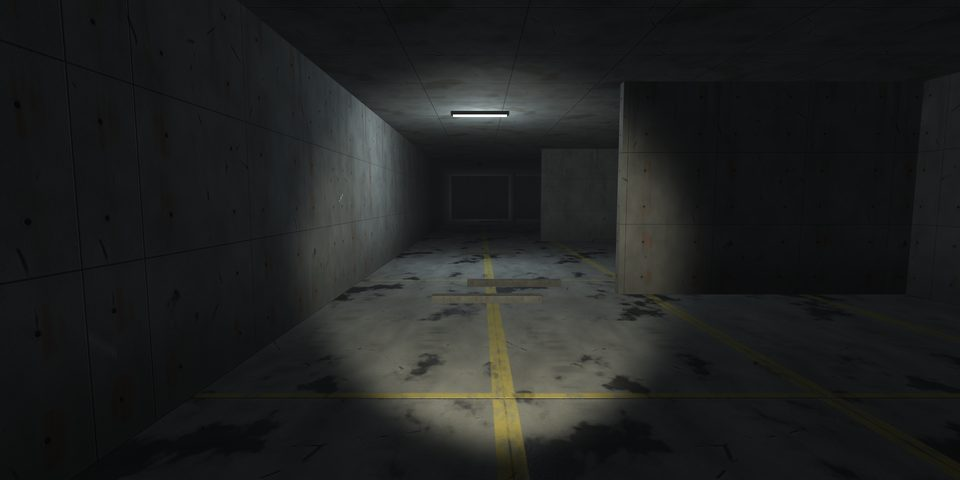
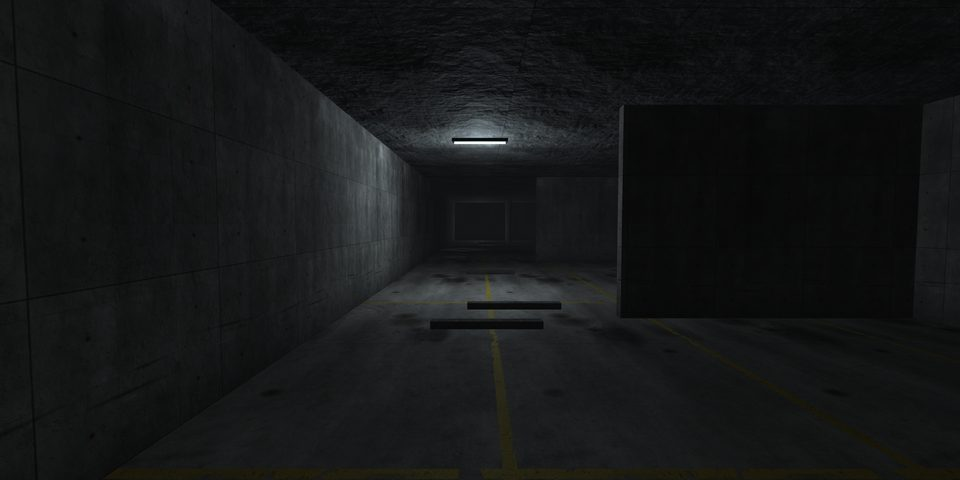
web v7.4.0: Novedades (ascensor nuevo, Aparcamiento, parque de bolas, Talasofobia, casas refugio), descarga v7.4.0 (≈253 MB) y tarjeta del Nivel 1 con captura real nueva sin VHS

Changed region(s): [[0.3125, 0.125, 0.75, 0.9375], [0.2812, 0.0625, 0.3125, 0.125]]

diff --git a/docs/index.html b/docs/index.html
@@ -102,13 +102,13 @@
         <h1 class="glitch" id="hero-title" data-title data-text="BACKROOMS: ESCAPA">BACKROOMS: ESCAPA</h1>
         <p class="hero-tagline">Has atravesado la pared equivocada. Zumbido de fluorescentes, moqueta húmeda y kilómetros de pasillos amarillos. Algo te sigue. <strong>Encuentra la salida.</strong></p>
         <div class="hero-actions">
-          <a class="btn btn-primary" href="https://github.com/rootesq-pixel/backrooms-escapa/releases/download/v7.3.0/BackroomsEscape_v7_3_0_Windows.zip" download>
+          <a class="btn btn-primary" href="https://github.com/rootesq-pixel/backrooms-escapa/releases/download/v7.4.0/BackroomsEscape_v7_4_0_Windows.zip" download>
             <svg class="btn-icon" viewBox="0 0 24 24" aria-hidden="true" focusable="false"><path d="M3 5.5 10.5 4.4v7.1H3V5.5Zm0 13 7.5 1.1v-7H3v5.9Zm8.4 1.2L21 21v-8.4h-9.6v7.1Zm0-15.4v7.2H21V3l-9.6 1.3Z"/></svg>
             Descargar para Windows
           </a>
           <a class="btn btn-ghost" href="#trailer">Ver gameplay</a>
         </div>
-        <p class="hero-note">Build temprana v7.3.0 (nuevo nivel 7: Talasofobia) · Windows 64 bits · ≈ 232 MB (zip). <a href="https://github.com/rootesq-pixel/backrooms-escapa/releases" target="_blank" rel="noopener">Código y versiones<span class="sr-only"> (se abre en una pestaña nueva)</span></a></p>
+        <p class="hero-note">Build temprana v7.4.0 (ascensor nuevo) · Windows 64 bits · ≈ 253 MB (zip). <a href="https://github.com/rootesq-pixel/backrooms-escapa/releases" target="_blank" rel="noopener">Código y versiones<span class="sr-only"> (se abre en una pestaña nueva)</span></a></p>
         <ul class="hero-facts" aria-label="Datos rápidos">
           <li><strong>8</strong> niveles</li>
           <li><strong>7</strong> criaturas</li>
@@ -148,6 +148,22 @@
         </header>
         <ol class="news-list">
           <li class="news-item news-latest">
+            <div class="news-meta"><span class="news-ver">v7.4.0</span><time datetime="2026-10-24">24 oct 2026</time></div>
+            <figure class="news-shot"><img src="assets/img/news-v7-4-0.jpg" alt="Capturas del juego: a la izquierda, el interior de la cabina del ascensor nuevo, con paneles de madera, pasamanos de acero, botonera iluminada e indicador de planta; a la derecha, la cabina abierta vista desde el rellano de hormigón del aparcamiento." width="960" height="540" loading="lazy" decoding="async"></figure>
+            <div class="news-body">
+              <h3>Ascensor nuevo</h3>
+              <ul>
+                <li><strong>Ascensor realista, por dentro y por fuera:</strong> cabina nueva de acero cepillado y madera, con pasamanos, botonera con luces, indicador de planta, sombras suaves horneadas en rincones y juntas, y un rellano de verdad al salir.</li>
+                <li><strong>Nivel 1 (Aparcamiento):</strong> texturas nuevas de hormigón con juntas, óxido, rozaduras, manchas de aceite y charcos, con el mismo brillo de antes.</li>
+                <li><strong>Parque de bolas arreglado:</strong> al vadear ya no se abre un hueco con una «foto» plana de bolas; las bolas vuelven a rodear las piernas. Además, la salida se alcanza siempre a pie (con algunos mapas no se podía llegar).</li>
+                <li><strong>Talasofobia:</strong> con el casco ya se nada bien desde el fondo (Espacio sube, Ctrl baja y W nada hacia donde miras). Al abrirse la jaula aparece el objetivo, y unas algas verdes luminosas marcan la boca de la gruta.</li>
+                <li><strong>Campo infinito:</strong> las casas tienen puertas normales y se entra de pie, sin agacharse. Además, son un refugio: los monstruos no pueden entrar; si te persiguen hasta la puerta, se quedan fuera, pierden tu rastro y se van.</li>
+                <li>Todos los recursos nuevos son trabajo propio o CC0 y están en los créditos.</li>
+                <li>Multijugador: protocolo <strong>MP-8</strong> (sin cambios de red), pero jugad todos con la v7.4.0.</li>
+              </ul>
+            </div>
+          </li>
+          <li class="news-item">
             <div class="news-meta"><span class="news-ver">v7.3.0</span><time datetime="2026-10-23">23 oct 2026</time></div>
             <figure class="news-shot"><img src="assets/img/news-v7-3-0.jpg" alt="El Farolero, un rape gigante de piel oscura, con la boca abierta llena de dientes finos como agujas; a la derecha, cascos de buzo de latón en el muelle, el muelle de madera entre la niebla y un buzo con traje amarillo." width="960" height="540" loading="lazy" decoding="async"></figure>
             <div class="news-body">
@@ -344,7 +360,7 @@
             </div>
           </li>
           <li class="level-card">
-            <img src="assets/img/nivel1-aparcamiento.jpg" alt="Captura del juego en el Nivel 1: pasillo de hormigón de un aparcamiento con líneas amarillas en el suelo, iluminado por la linterna y un fluorescente lejano." width="960" height="480" loading="lazy" decoding="async">
+            <img src="assets/img/nivel1-aparcamiento.jpg" alt="Captura del juego en el Nivel 1: pasillo de hormigón manchado de un aparcamiento con líneas amarillas en el suelo, topes de aparcamiento y un fluorescente lejano en el techo." width="960" height="480" loading="lazy" decoding="async">
             <div class="level-body">
               <p class="level-num">NIVEL 1</p>
               <h3>Aparcamiento</h3>
@@ -380,7 +396,7 @@
             <div class="level-body">
               <p class="level-num">NIVEL 5</p>
               <h3>Campo infinito</h3>
-              <p>Hierba alta bajo un cielo blanco y una niebla que no se levanta nunca. Casas abandonadas salpican el campo, y dentro de ellas están las llaves. Lo que te sigue entre la hierba se parece demasiado a ti.</p>
+              <p>Hierba alta bajo un cielo blanco y una niebla que no se levanta nunca. Casas abandonadas salpican el campo, y dentro de ellas están las llaves. Son tu refugio: los monstruos no pueden entrar. Lo que te sigue entre la hierba se parece demasiado a ti.</p>
             </div>
           </li>
           <li class="level-card">
@@ -585,7 +601,7 @@
             <h3>Cómo jugar con amigos</h3>
             <p class="mp-opt"><strong>Opción A · Con código</strong> (recomendada: sin abrir puertos, funciona incluso con CGNAT)</p>
             <ol class="steps">
-              <li><strong>Misma versión.</strong> Todos necesitáis la v7.3.0 (protocolo <strong>MP-8</strong>); la v7.2.0 y anteriores no pueden unirse.</li>
+              <li><strong>Misma versión.</strong> Jugad todos con la v7.4.0 (protocolo <strong>MP-8</strong>). La v7.3.0 usa el mismo protocolo, pero algunos mapas del Parque de bolas no coinciden; la v7.2.0 y anteriores no pueden unirse.</li>
               <li><strong>Anfitrión:</strong> menú principal → <em>Multijugador</em> → escribe tu nombre → <em>Alojar con código</em>. La sala muestra un código de 6 caracteres: pásaselo a tus amigos.</li>
               <li><strong>Clientes:</strong> <em>Multijugador</em> → nombre → <em>Unirse con código</em> → escribe el código. Entraréis en la sala de espera.</li>
               <li>El anfitrión elige el nivel con ◄ ► y pulsa <em>Empezar</em>. No se puede entrar en una partida ya empezada.</li>
@@ -806,11 +822,11 @@
         <div class="download-box">
           <div class="download-main">
             <p class="download-platform">Windows PC · 64 bits</p>
-            <a class="btn btn-primary" href="https://github.com/rootesq-pixel/backrooms-escapa/releases/download/v7.3.0/BackroomsEscape_v7_3_0_Windows.zip" download>
+            <a class="btn btn-primary" href="https://github.com/rootesq-pixel/backrooms-escapa/releases/download/v7.4.0/BackroomsEscape_v7_4_0_Windows.zip" download>
               <svg class="btn-icon" viewBox="0 0 24 24" aria-hidden="true" focusable="false"><path d="M3 5.5 10.5 4.4v7.1H3V5.5Zm0 13 7.5 1.1v-7H3v5.9Zm8.4 1.2L21 21v-8.4h-9.6v7.1Zm0-15.4v7.2H21V3l-9.6 1.3Z"/></svg>
               Descargar para Windows
             </a>
-            <p class="download-note"><strong>v7.3.0</strong> · ZIP de ≈ 232 MB. Descomprime y ejecuta <code>BackroomsEscape.exe</code>.</p>
+            <p class="download-note"><strong>v7.4.0</strong> · ZIP de ≈ 253 MB. Descomprime y ejecuta <code>BackroomsEscape.exe</code>.</p>
             <p class="download-note download-smartscreen"><strong>Aviso de Windows SmartScreen:</strong> el ejecutable no está firmado digitalmente, por lo que Windows puede mostrar «Windows protegió su PC». Pulsa <em>Más información</em> → <em>Ejecutar de todas formas</em> si confías en la descarga. Es una build temprana.</p>
             <p class="download-note"><a href="https://github.com/rootesq-pixel/backrooms-escapa/releases" target="_blank" rel="noopener">Código y versiones<span class="sr-only"> (se abre en una pestaña nueva)</span></a> · <a href="https://github.com/rootesq-pixel/backrooms-escapa" target="_blank" rel="noopener">Repositorio en GitHub<span class="sr-only"> (se abre en una pestaña nueva)</span></a></p>
           </div>
